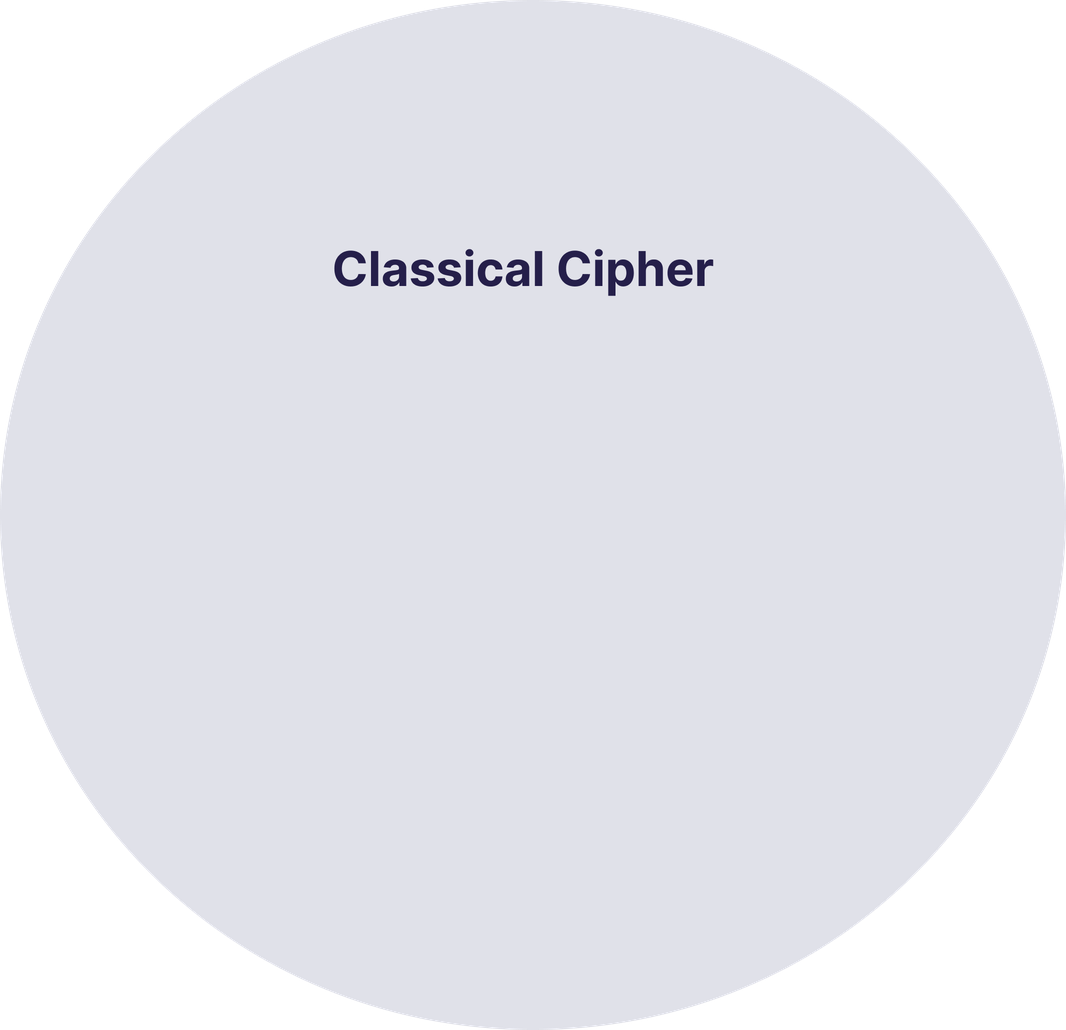
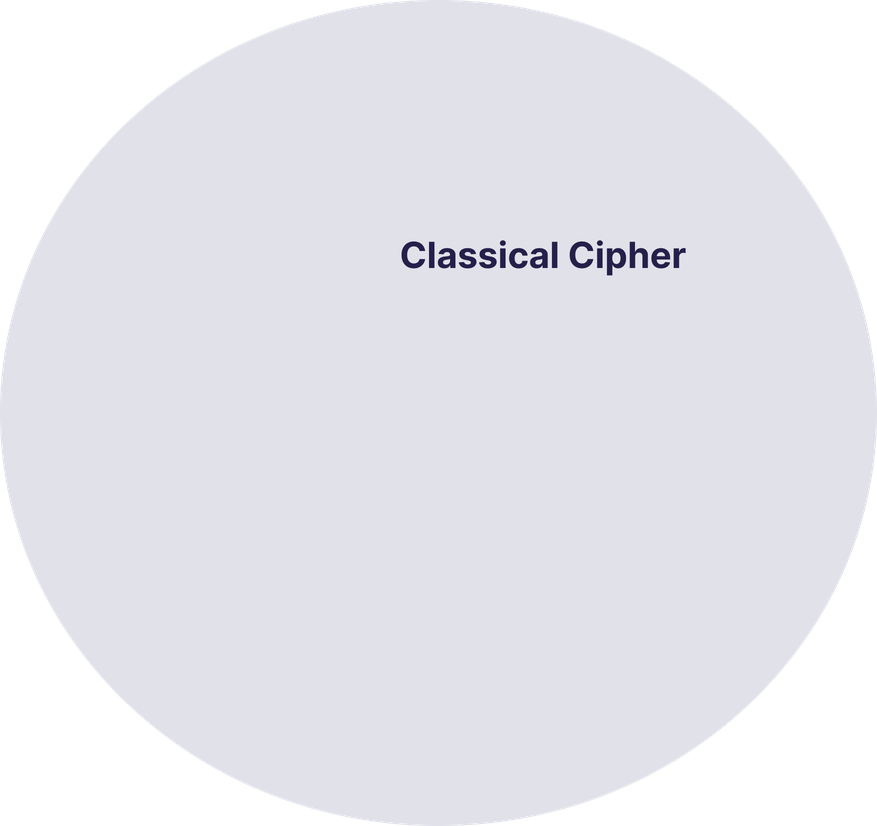
Update main page

Changed region(s): [[0.3079, 0.2421, 0.8005, 0.3329]]

diff --git a/src/viewMainPage.py b/src/viewMainPage.py
@@ -22,8 +22,10 @@ def clickVigenereExtend():
     vigenereCipherExtend(window)
 
 def clickPlayfair():
-    from viewPlayfairCip import playfairCipher
-    playfairCipher(window)
+    pass
+    #window.destroy()
+    #import guiPlayfairCip
+    #guiPlayfairCip(window)
 
 def clickOTP():
     from viewOTP import otpCipher
@@ -36,7 +38,7 @@ def mainPage(screen=None):
     global window
     window = Tk()
     window.title("Classical Cipher")
-    window.geometry("1200x630")
+    window.geometry("800x500")
     window.configure(bg = "#FFFFFF")
 
 
@@ -54,40 +56,40 @@ def mainPage(screen=None):
     image_image_1 = PhotoImage(
         file=relative_to_assets("image_1.png"))
     image_1 = canvas.create_image(
-        320.0,
-        390.0,
+        140.0,
+        300.0,
         image=image_image_1
     )
 
     image_image_2 = PhotoImage(
         file=relative_to_assets("image_2.png"))
     image_2 = canvas.create_image(
-        1108.0,
-        539.0,
+        740.0,
+        460.0,
         image=image_image_2
     )
 
     image_image_3 = PhotoImage(
         file=relative_to_assets("image_3.png"))
     image_3 = canvas.create_image(
-        1150.0,
-        39.0,
+        770.0,
+        30.0,
         image=image_image_3
     )
 
     canvas.create_rectangle(
-        1068.0,
-        116.0,
-        1223.0,
-        251.0,
+        725.0,
+        113.0,
+        842.0,
+        217.0,
         fill="#D3C3B1",
         outline="")
 
     canvas.create_rectangle(
-        897.0,
-        540.0,
-        1119.0,
-        675.0,
+        596.0,
+        440.0,
+        764.0,
+        544.0,
         fill="#D3C3B1",
         outline="")
 
@@ -101,10 +103,10 @@ def mainPage(screen=None):
         relief="flat"
     )
     button_1.place(
-        x=123.0,
-        y=349.0,
-        width=253.0,
-        height=118.0
+        x=103.0,
+        y=278.0,
+        width=160.0,
+        height=64.0
     )
 
     button_image_2 = PhotoImage(
@@ -117,10 +119,10 @@ def mainPage(screen=None):
         relief="flat"
     )
     button_2.place(
-        x=409.0,
-        y=349.0,
-        width=253.0,
-        height=118.0
+        x=280.0,
+        y=277.0,
+        width=160.0,
+        height=64.0
     )
 
     button_image_3 = PhotoImage(
@@ -133,10 +135,10 @@ def mainPage(screen=None):
         relief="flat"
     )
     button_3.place(
-        x=123.0,
-        y=197.0,
-        width=253.0,
-        height=118.0
+        x=103.0,
+        y=195.0,
+        width=160.0,
+        height=64.0
     )
 
     button_image_4 = PhotoImage(
@@ -149,10 +151,10 @@ def mainPage(screen=None):
         relief="flat"
     )
     button_4.place(
-        x=409.0,
-        y=197.0,
-        width=253.0,
-        height=118.0
+        x=280.0,
+        y=195.0,
+        width=160.0,
+        height=64.0
     )
     window.resizable(False, False)
     window.mainloop()
